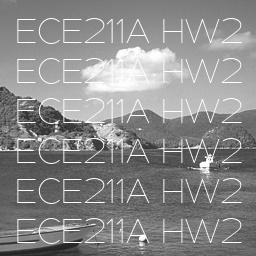
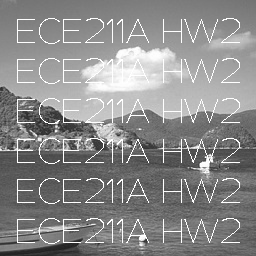
KSVD Working

diff --git a/HW2/aucookson_homework2.py b/HW2/aucookson_homework2.py
@@ -6,7 +6,7 @@ ECE211A Homework 2
 """
 
 from PIL import Image, ImageDraw, ImageFont
-from sklearn.linear_model import orthogonal_mp
+from sklearn.linear_model import OrthogonalMatchingPursuit
 #import skimage.metrics as metrics
 import matplotlib.pyplot as plt
 import matplotlib.gridspec as gridspec
@@ -95,6 +95,7 @@ def draw_text(img, invert=False):
     #font = ImageFont.truetype("sans-serif.ttf", 16)
     font = ImageFont.truetype('Adequate-ExtraLight.ttf', 30)
     d = ImageDraw.Draw(img)
+    d.fontmode='1'
     
     fill_col = 255 if not invert else 0
     
@@ -144,12 +145,6 @@ def load_images():
     m_test_missing = cv2.imread('m_test_missing.png', 0)
     return (y_train, y_test, y_test_missing, m_test_missing)
 
-# Returns Unit Norm Dictionary of Patches
-def random_dict(num_atoms=512, patch_size=8):
-    d = np.random.random(size=(patch_size*patch_size, num_atoms)).astype(np.float32) 
-    d = d / np.linalg.norm(d, axis=0, keepdims=True)
-    return d
-
 def K_SVD(y_train, tol=100, num_iter=100, S=20):
     patch_size = 8
     num_patches = (IMG_SIZE // patch_size)**2
@@ -167,18 +162,21 @@ def K_SVD(y_train, tol=100, num_iter=100, S=20):
         
         # Calculate x
         x = np.zeros((num_atoms, num_patches))
-        for i, patch in enumerate(y_patches):
-            x[:, i] = orthogonal_mp(A_ksvd, patch, n_nonzero_coefs=S)
-            
+        omp = OrthogonalMatchingPursuit(S, fit_intercept=False)
+        # for i, patch in enumerate(y_patches):
+        #     omp.fit(A_ksvd, patch)
+        #     x[:, i] = omp.coef_
+        omp.fit(A_ksvd, np.asarray(y_patches).T)  
+        coef = omp.coef_.T
         # Residual Threshold Termination
-        error = residual_error(y_patches_train, A_ksvd, x)
+        error = np.linalg.norm(A_ksvd.dot(coef) - np.asarray(y_patches).T)
         print ('\t Residual Error: {}'.format(error))
         if error <= tol: 
             return (A_ksvd, True)
         
         # Update Dictionary atom-by-atom
         for atom in range(num_atoms):
-            wk = np.nonzero(x[atom, :])[0]
+            wk = np.nonzero(coef[atom, :])[0]
             
             if np.sum(wk) == 0:
                 continue
@@ -190,14 +188,14 @@ def K_SVD(y_train, tol=100, num_iter=100, S=20):
                # aj = np.expand_dims(A_ksvd[:, j], axis=1) #64, 1
                 #x_tj = np.expand_dims(x[j, :], axis=0) #1, 1024
                 #Ek = Ek - aj.dot(x_tj)
-            Ek = Ek - A_ksvd.dot(x)
+            Ek = Ek - A_ksvd.dot(coef)
 
             Ek_ohm = Ek[:, wk]
             
             # Update A, x with SVD
             U, D, V = np.linalg.svd(Ek_ohm, full_matrices=True)
             A_ksvd[:, atom] = U[:, 0]
-            x[atom, wk] = (V[:, 0] * D[0]).T
+            coef[atom, wk] = (V[:, 0] * D[0]).T
             
     return (A_ksvd, False)
     
@@ -211,24 +209,32 @@ def residual_error(y_patches, A, x):
                 
 # Recover Image Patches Using OMP
 def recover_OMP(A, y_patches, m_patches, S=20):
-    patches_recovered = np.zeros((1024, 8, 8))
-    
+    patches_recovered = np.zeros((1024, 8, 8)) 
+    omp = OrthogonalMatchingPursuit(S, fit_intercept=False)
     for i in range(len(y_patches)):
-        patches_recovered[i] = A.dot(_OMP_Patch(A, y_patches[i], m_patches[i])).reshape((8, 8))
+        patches_recovered[i] = A.dot(_OMP_Patch(A, y_patches[i], m_patches[i], omp)).reshape((8, 8))
+        
     return recombine_patches(patches_recovered)
         
 # Orthogonal Matching Pursuit
-def _OMP_Patch(A, y_patch, m_patch, S=20):
+def _OMP_Patch(A, y_patch, m_patch, omp, S=20):
+   
     y_patch = y_patch.flatten()
-    m_patch = m_patch.flatten()
-    y_patch_masked = y_patch[np.where(m_patch != 0)]
-    A_masked = A[np.where(m_patch != 0)]
-    coef = orthogonal_mp(A_masked, y_patch_masked, n_nonzero_coefs=S)
-    return coef
+    m_patch = m_patch.flatten().astype(bool)
+    y_patch_masked = y_patch[m_patch]
+    A_masked = A[m_patch]
+    omp.fit(A_masked, y_patch_masked)
+    return omp.coef_
 
+# Returns Unit Norm Dictionary of Patches
+def random_dict(num_atoms=512, patch_size=8):
+    d = np.random.random(size=(patch_size*patch_size, num_atoms)).astype(np.float32) 
+    for i in range(num_atoms):
+        d[:, i] = d[:,i] / np.linalg.norm(d[:,i])
+    return d
 
 if __name__=='__main__':
-    #prepare_images()
+    prepare_images()
     
     (y_train, y_test, y_test_missing, m_test_missing) = load_images()
     
@@ -236,12 +242,13 @@ if __name__=='__main__':
     y_test = y_test / 255 
     y_test_missing = y_test_missing / 255
     
+    
     #calc_metrics(y_test, y_test_missing)
     
     y_patches_missing = extract_patches(y_test_missing)
     y_patches_test = extract_patches(y_test)
     m_patches = extract_patches(m_test_missing)
-    A_ksvd, converged = K_SVD(y_train, tol = 10, num_iter=16)
+    A_ksvd, converged = K_SVD(y_train, tol = 1e-3, num_iter=3)
     img_recovered = recover_OMP(A_ksvd, y_patches_missing, m_patches)
     #save_patches(np.asarray(y_patches), np.asarray(m_patches))
 
